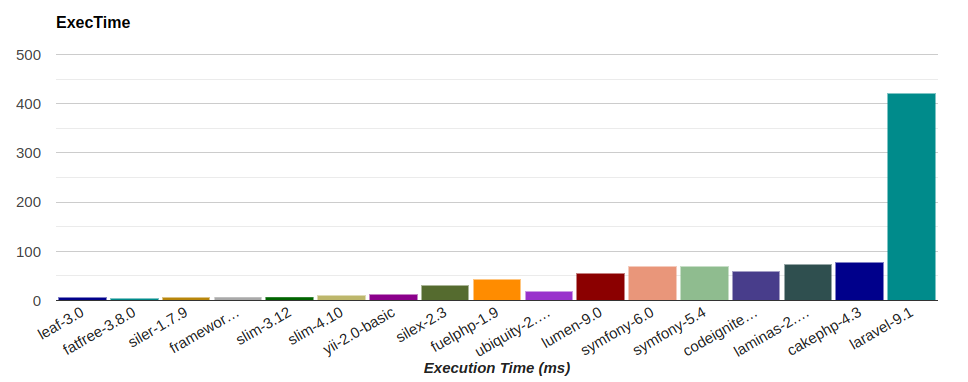
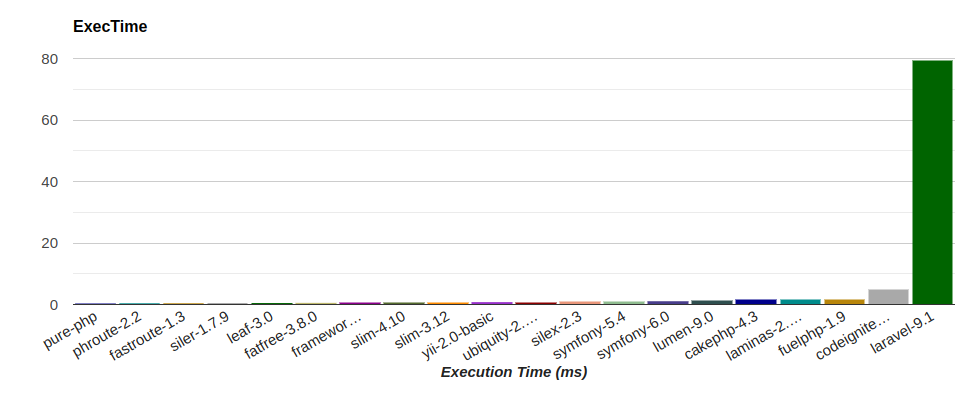
Update README.md & screenshots

diff --git a/README.md b/README.md
@@ -13,15 +13,60 @@ Components like Template engines or ORM/Database libraries are out of scope in t
 
 
 - [PHP Frameworks Bench](#php-frameworks-bench)
+  - [Benchmarks](#benchmarks)
+    - [Latest](#latest)
   - [Benchmarking Policy](#benchmarking-policy)
   - [How to Benchmark](#how-to-benchmark)
   - [Commands](#commands)
-  - [Benchmarks](#benchmarks)
-    - [Latest](#latest)
-    - [OPCache](#results-with-opcache)
   - [References](#references)
   - [License](#license)
 
+
+## Benchmarks
+
+### Latest
+
+#### Environment
+
+* Ubuntu 22.04 LTS 64bit
+  * PHP 8.1.6
+  * OPCache enabled
+  * Apache 2.4.52
+  * CPU Core i7 2600K@4Ghz
+  * Memory 16G 
+
+
+#### Results (2022/5/22)
+
+These are my benchmarks, not yours. **I encourage you to run on your (production equivalent) environments.**
+
+![Benchmark Results Graph Throughput](screenshots/php-frameworks-bench-throughput.png)
+![Benchmark Results Graph Memory](screenshots/php-frameworks-bench-memory.png)
+![Benchmark Results Graph Execution Time](screenshots/php-frameworks-bench-exectime.png)
+![Benchmark Results Graph Included Files](screenshots/php-frameworks-bench-includedfiles.png)
+
+|framework          |requests per second|relative|peak memory|relative|
+|-------------------|------------------:|-------:|----------:|-------:|
+|pure-php           |          42,114.24|    52.1|       0.34|     1.0|
+|phroute-2.2        |          33,424.47|    42.4|       0.34|     1.0|
+|fastroute-1.3      |          33,190.14|    42.1|       0.34|     1.0|
+|siler-1.7.9        |          22,152.74|    28.8|       0.36|     1.1|
+|leaf-3.0           |          20,685.10|    26.3|       0.36|     1.1|
+|fatfree-3.8.0      |          19,282.52|    24.5|       0.39|     1.1|
+|frameworkx-dev     |          18,033.22|    22.9|       0.37|     1.1|
+|slim-4.10          |          14,958.27|    19.0|       0.38|     1.1|
+|slim-3.12          |          14,714.84|    18.7|       0.39|     1.1|
+|yii-2.0-basic      |          11,831.91|    15.0|       0.70|     2.1|
+|ubiquity-2.4.x.dev |          11,669.47|    14.8|       0.38|     1.1|
+|silex-2.3          |          10,415.74|    13.2|       0.39|     1.1|
+|symfony-5.4        |           9,761.44|    12.4|       0.46|     1.4|
+|symfony-6.0        |           9,737.48|    12.4|       0.45|     1.3|
+|lumen-9.0          |           6,205.79|     7.7|       0.39|     1.1|
+|cakephp-4.3        |           5,562.91|     7.0|       0.43|     1.3|
+|laminas-2.0.x.dev  |           5,015.71|     6.4|       0.49|     1.4|
+|fuelphp-1.9        |           4,894.22|     6.2|       0.45|     1.3|
+|codeigniter-4.1    |           1,938.43|     2.5|       1.46|     4.3|
+|laravel-9.1        |             788.76|     1.0|       0.55|     1.6|
 
 
 ## Benchmarking Policy
@@ -47,24 +92,26 @@ If you want to benchmark PHP extension frameworks like Phalcon, you need to inst
 
 1- Download & install the library in your localhost:
 
-```
-# instead you can use --branch vx.x
+```bash
+# you can put --branch vx.x
 $ git clone https://github.com/myaghobi/php-frameworks-bench.git
+
 $ cd php-frameworks-bench
+
 # run the setup & follow the progress
 $ bash setup.sh
 ```
 
 2- To make sure everything is ok:
 
-```
+```bash
 # this is optional
 $ bash check.sh
 ```
 
 3- Run benchmarks:
 
-```
+```bash
 $ bash benchmark.sh
 ```
 
@@ -75,7 +122,7 @@ $ bash benchmark.sh
 
 ## Commands
 
-```
+```bash
 # composer update for each framework
 $ bash update.sh
 
@@ -93,62 +140,10 @@ $ bash show-table.sh
 
 To specify the frameworks, put them after each command:
 
-```
+```bash
 $ bash benchmark.sh laravel-9.1/ slim-4.10/ fatfree-3.8.0/
 ...
 ```
-
-
-## Benchmarks
-
-### Latest
-
-#### Environment
-
-* Ubuntu 22.04 LTS 64bit
-  * PHP 8.1.5
-  * OPCache disabled
-  * Apache 2.4.52
-  * CPU Core i7 2600K@4Ghz
-  * Memory 16G 
-
-
-#### Results (2022/5/15)
-
-These are my benchmarks, not yours. **I encourage you to run on your (production equivalent) environments.**
-
-![Benchmark Results Graph Throughput](screenshots/php-frameworks-bench-throughput.png)
-![Benchmark Results Graph Memory](screenshots/php-frameworks-bench-memory.png)
-![Benchmark Results Graph Execution Time](screenshots/php-frameworks-bench-exectime.png)
-![Benchmark Results Graph Included Files](screenshots/php-frameworks-bench-includedfiles.png)
-
-|framework          |requests per second|relative|peak memory|relative|
-|-------------------|------------------:|-------:|----------:|-------:|
-|pure-php           |          22,427.34|22,427.3|       0.42|     0.4|
-|fastroute-1.3      |           4,224.76| 4,224.8|       0.56|     0.6|
-|phroute-2.2        |           3,901.59| 3,901.6|       0.58|     0.6|
-|leaf-3.0           |           1,539.38| 1,539.4|       1.05|     1.1|
-|fatfree-3.8.0      |           1,414.71| 1,414.7|       1.67|     1.7|
-|siler-1.7.9        |           1,314.15| 1,314.2|       1.17|     1.2|
-|frameworkx-dev     |             972.97|   973.0|       1.41|     1.4|
-|slim-3.12          |             969.54|   969.5|       1.40|     1.4|
-|slim-4.10          |             752.96|   753.0|       1.60|     1.6|
-|yii-2.0-basic      |             510.90|   510.9|       2.72|     2.7|
-|silex-2.3          |             510.51|   510.5|       2.18|     2.2|
-|fuelphp-1.9        |             410.60|   410.6|       2.50|     2.5|
-|ubiquity-2.4.x.dev |             379.51|   379.5|       2.33|     2.3|
-|lumen-9.0          |             329.70|   329.7|       3.39|     3.4|
-|symfony-6.0        |             293.11|   293.1|       3.85|     3.9|
-|symfony-5.4        |             291.41|   291.4|       3.77|     3.8|
-|codeigniter-4.1    |             290.94|   290.9|       3.39|     3.4|
-|laminas-2.0.x.dev  |             284.43|   284.4|       3.52|     3.5|
-|cakephp-4.3        |             232.68|   232.7|       4.45|     4.5|
-|laravel-9.1        |              93.47|    93.5|      11.04|    11.0|
-
-
-
-### Results with OPCache (old version)
-[![IMAGE ALT TEXT](http://img.youtube.com/vi/BUcxalvD92U/0.jpg)](http://www.youtube.com/watch?v=BUcxalvD92U "PHP OPCache Benchmarks, a Comparison for Popular Frameworks")
 
 
 ## References 
